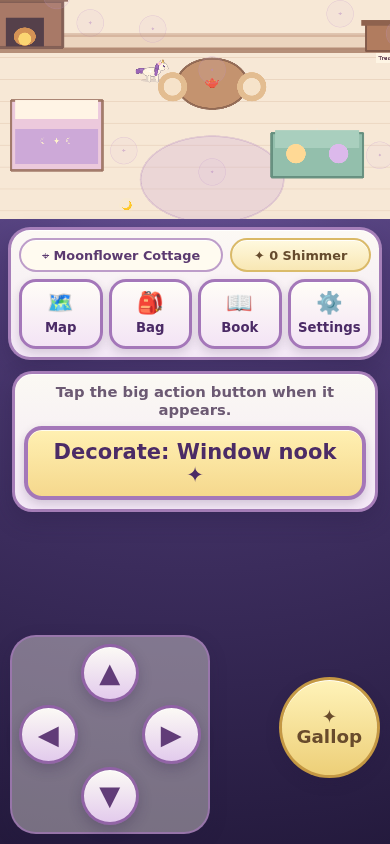
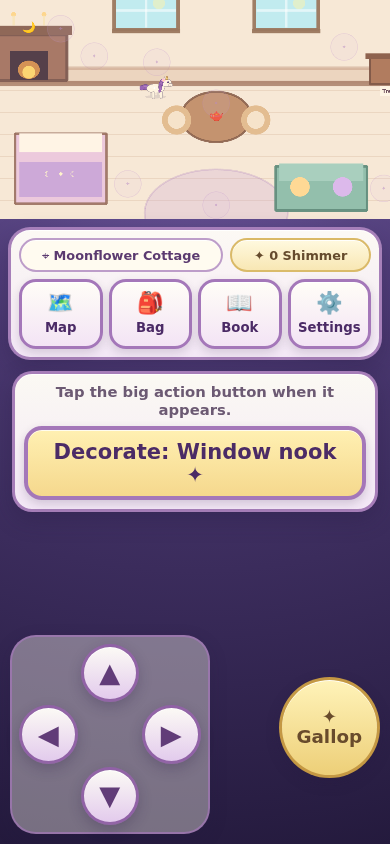
test: verify Cottage wall contact geometry

Changed region(s): [[0.0, 0.0, 1.0, 0.2773], [0.3692, 0.1848, 0.4, 0.2156]]

diff --git a/tests/play/r6.5-wp19b-world-navigation.spec.ts b/tests/play/r6.5-wp19b-world-navigation.spec.ts
@@ -8,6 +8,8 @@ interface ObjectSnapshot {
   displayHeight: number;
   visible: boolean;
   playerFacing: string | null;
+  bodyY: number | null;
+  bodyHeight: number | null;
 }
 interface SceneSnapshot {
   key: string;
@@ -23,6 +25,7 @@ interface Snapshot {
 interface Diagnostics {
   snapshot(): Snapshot;
   startScene(key: string): void;
+  setArcadeSpritePosition(key: string, objectName: string, x: number, y: number): void;
 }
 
 async function snapshot(page: Page): Promise<Snapshot> {
@@ -81,13 +84,24 @@ test('Cottage wall seam blocks whole-unicorn overlap while approaches and Gallop
 }) => {
   await page.goto('/?diagnostics=1');
   await startScene(page, 'CottageInteriorScene');
-
+  await page.evaluate(() =>
+    (
+      window as typeof window & { __UNICORN_VALLEY_DIAGNOSTICS__?: Diagnostics }
+    ).__UNICORN_VALLEY_DIAGNOSTICS__?.setArcadeSpritePosition(
+      'CottageInteriorScene',
+      'world-player-unicorn',
+      705,
+      455,
+    ),
+  );
   await page.keyboard.down('ArrowUp');
-  await page.waitForTimeout(2_200);
+  await page.waitForTimeout(2_500);
   await page.keyboard.up('ArrowUp');
   let value = await snapshot(page);
   const atWall = player(value, 'CottageInteriorScene');
-  expect(atWall.y).toBeGreaterThanOrEqual(430);
+  expect(atWall.bodyY).toBeGreaterThanOrEqual(389);
+  expect((atWall.bodyY ?? 0) + (atWall.bodyHeight ?? 0)).toBeGreaterThan(409);
+  expect(atWall.y).toBeLessThan(440);
   expect(
     scene(value, 'CottageInteriorScene').objects.some(({ name }) => name === 'cottage-floor-seam'),
   ).toBe(true);
@@ -101,7 +115,7 @@ test('Cottage wall seam blocks whole-unicorn overlap while approaches and Gallop
   expect(player(value, 'CottageInteriorScene').y).toBeGreaterThan(atWall.y + 45);
 
   const beforeTapX = player(value, 'CottageInteriorScene').x;
-  await tapWorld(page, 'CottageInteriorScene', 705, 455);
+  await tapWorld(page, 'CottageInteriorScene', 500, 445);
   await expect
     .poll(async () => beforeTapX - player(await snapshot(page), 'CottageInteriorScene').x)
     .toBeGreaterThan(35);

diff --git a/docs/evidence/R6.5-WP19B-WORLD-NAVIGATION-QUALIFICATION.md b/docs/evidence/R6.5-WP19B-WORLD-NAVIGATION-QUALIFICATION.md
@@ -10,7 +10,7 @@ The first PR-triggered smoke `34345012257` stopped before browser execution beca
 
 ## Cottage floor-boundary correction
 
-The displayed skirting/floor seam is world `y=390`. Previously `wall-top` ended at `y=140`, allowing the player's feet/body to enter the illustrated back wall and window region. The blocker now spans the back wall through `y=390`; the seam is a named foreground occlusion edge. At the window approach (`705,455`) the 112 × 92 complete unicorn occupies visual `y=409..501`, while its 68 × 44 Arcade body and feet remain below the seam. Current exact values for each rendered display are in `wp19b-current-head/geometry.json`.
+The displayed skirting/floor seam is world `y=390`. Previously `wall-top` ended at `y=140`, allowing the player's feet/body to enter the illustrated back wall and window region. The blocker now spans the back wall through `y=390`; the seam is a named foreground occlusion edge. At wall contact near `x=705`, the 112 × 92 complete unicorn is visible across `y=354..446`; its scaled Arcade body begins at the seam (`y=390`) and its feet remain on the floor at `y=410`. Current exact centre, visual bounds, body and feet values for every display are in `wp19b-current-head/geometry.json`.
 
 The window nook and left/right wall decoration art remain at their established positions, but their interaction approaches are deliberately on the floor at `y=455/445/445`. The treasure shelf approach moved to `(1310,470)`. Willow and Nova visits moved from wall-overlapping `y=430` to `y=470`. Exit, centre/floor slots and tea-table approach remain reachable. Empty and occupied decoration presentation is unchanged.
 
